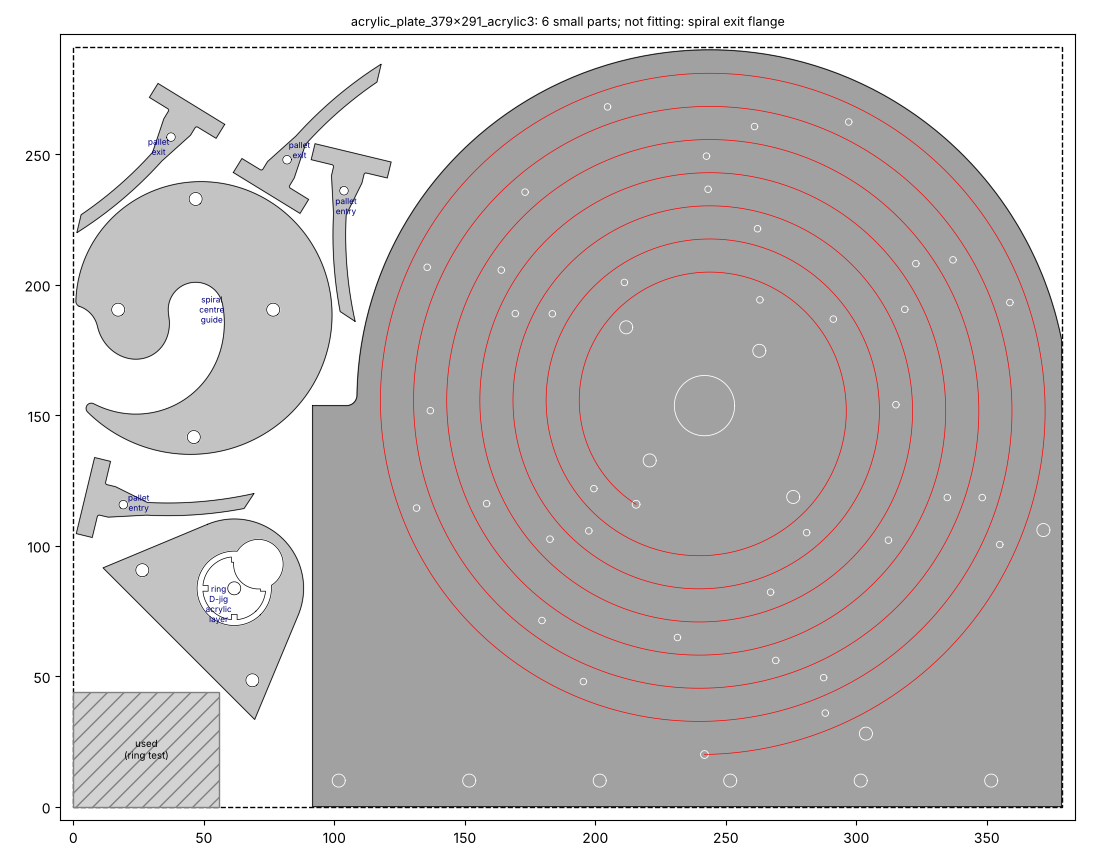
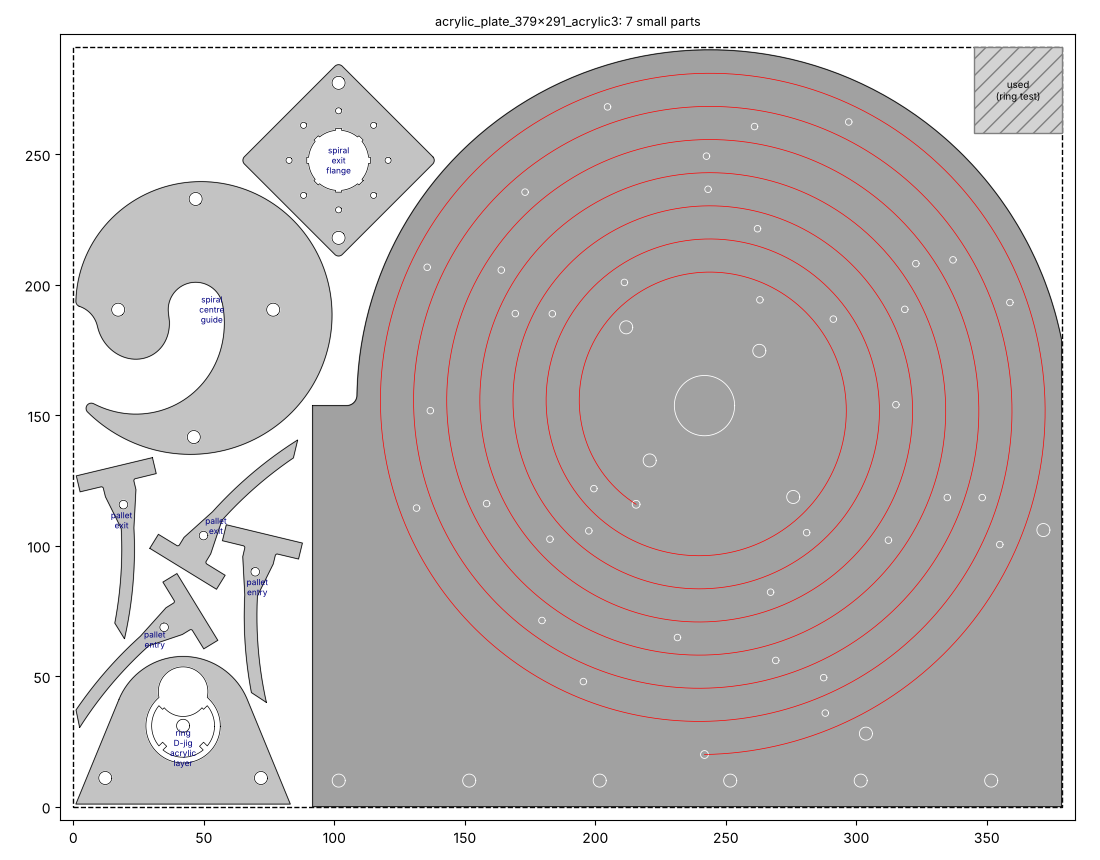
Acrylic plate: ring-test keep-out at the far corner (sheet turned 180 deg); exit flange now fits
Claude-Session: https://claude.ai/code/session_01LQy87QnU21cWEAk5CN6jGY

diff --git a/marbles/acrylic_plate.py b/marbles/acrylic_plate.py
@@ -95,8 +95,9 @@ def place(free, polys, step=2.0, angles=range(0, 360, 45)):
 
 def main():
     ap = argparse.ArgumentParser(description=__doc__.split("\n")[0])
-    ap.add_argument("--keepout", type=float, nargs=2, default=[56.0, 44.0], help="used corner (the ring test), W H")
-    ap.add_argument("--corner", choices=["bl", "br", "tl", "tr"], default="bl", help="which plate corner is used")
+    ap.add_argument("--keepout", type=float, nargs=2, default=[34.0, 33.0], help="used corner (the ring test), W H inside the plate")
+    ap.add_argument("--corner", choices=["bl", "br", "tl", "tr"], default="tr",
+                    help="which plate corner is used (tr: the sheet turned 180 deg, so the ring-test corner is the far one)")
     ap.add_argument("-o", "--out", type=Path, default=HERE / "gcode")
     a = ap.parse_args()
     S.configure(True, 20.0, PLATE[1])

diff --git a/marbles/clock/CUT_LIST.md b/marbles/clock/CUT_LIST.md
@@ -7,14 +7,14 @@ the new batch).
 
 ## Combined plates (cut these instead of the separate files)
 
-- [ ] **Acrylic plate** `acrylic_plate_379x291_acrylic3` (about 48 min; X0 Y0 = plate bottom-left; the 56 × 44 mm
-      ring-test corner is kept clear; preview `views/acrylic_plate_379x291_acrylic3.png`):
+- [ ] **Acrylic plate** `acrylic_plate_379x291_acrylic3` (about 51 min; X0 Y0 = plate bottom-left; turn the sheet 180°
+      so the ring-test corner is the far one, kept clear at x 345–379, y 258–291; preview `views/acrylic_plate_379x291_acrylic3.png`):
   - round spiral (layered top with M3 tap holes), 287 × 291 mm, 6.9 laps, outline trimmed at the far corners;
   - spiral centre guide;
   - ring D-jig acrylic layer;
-  - pallets: 2 × entry, 2 × exit.
-  - Not on it: the spiral exit flange (no room) and the entry guide (150 × 285 mm). Cut those from a second sheet,
-    or in ply3.
+  - pallets: 2 × entry, 2 × exit;
+  - spiral exit flange.
+  - Not on it: the entry guide (150 × 285 mm). Cut it from a second sheet, or in ply3.
   - The ply3 layers under this spiral: `spiral_run_round_trim_slot_287x291_ply3`, × 1 or 2. It's the same
     trimmed 287 × 291 piece with slots instead of tap holes.
 - [ ] **Escapement side plate** `esc_side_plate_290x290_ply3`, cut 2 (one per side): lantern ring + 1 pallet clamp
